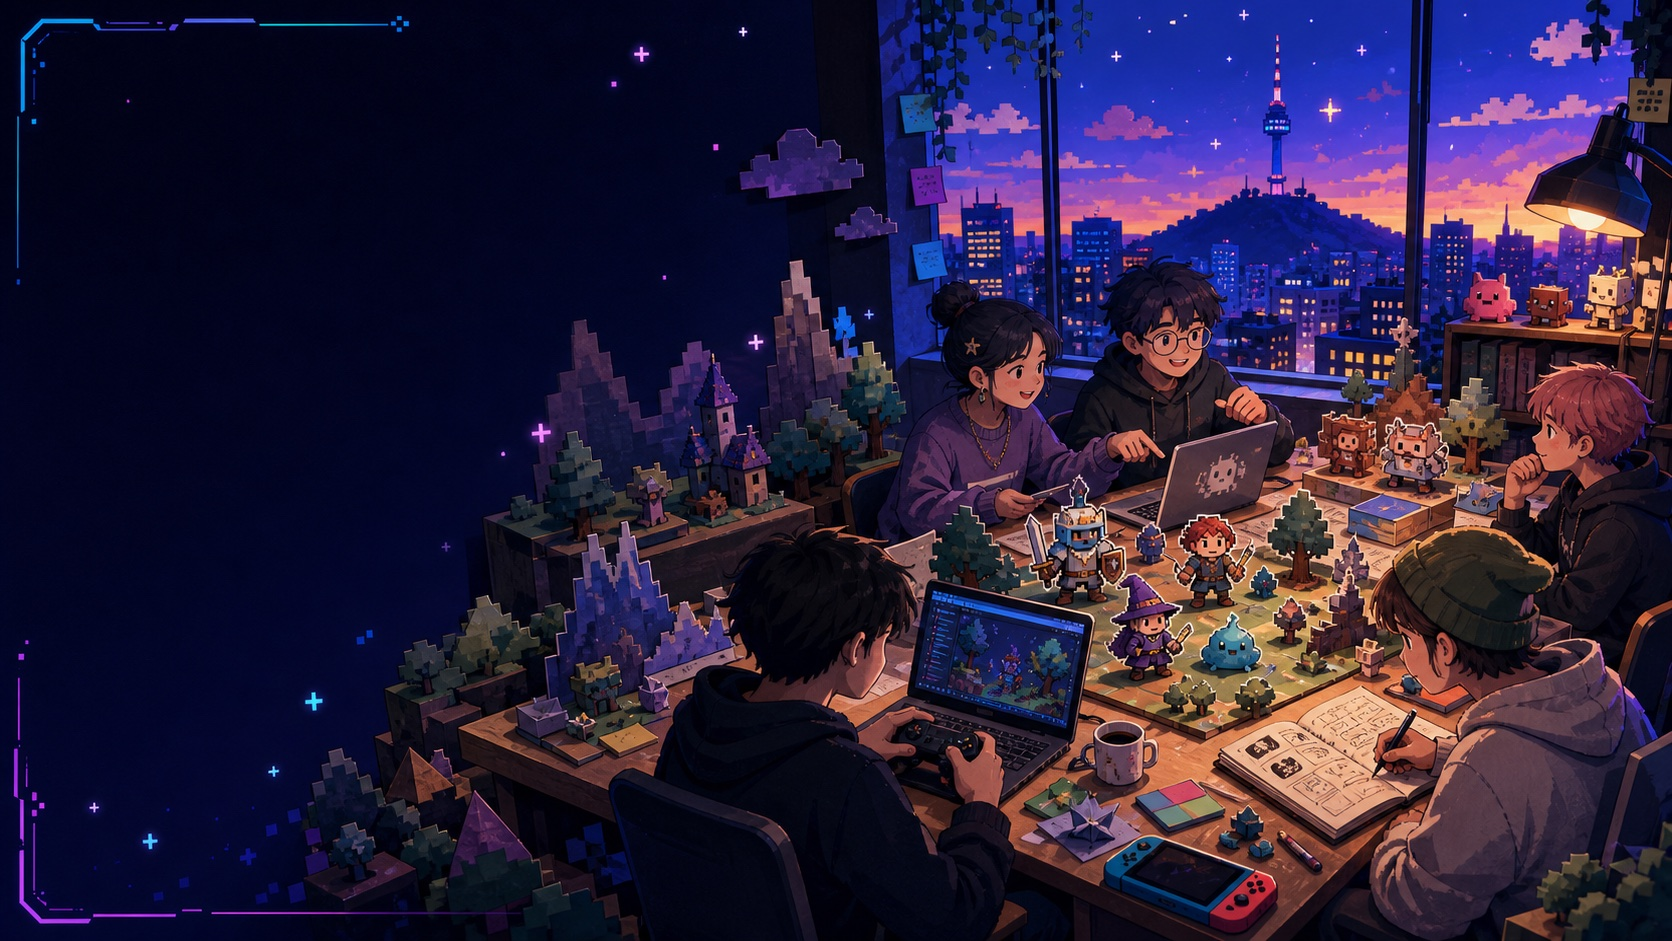
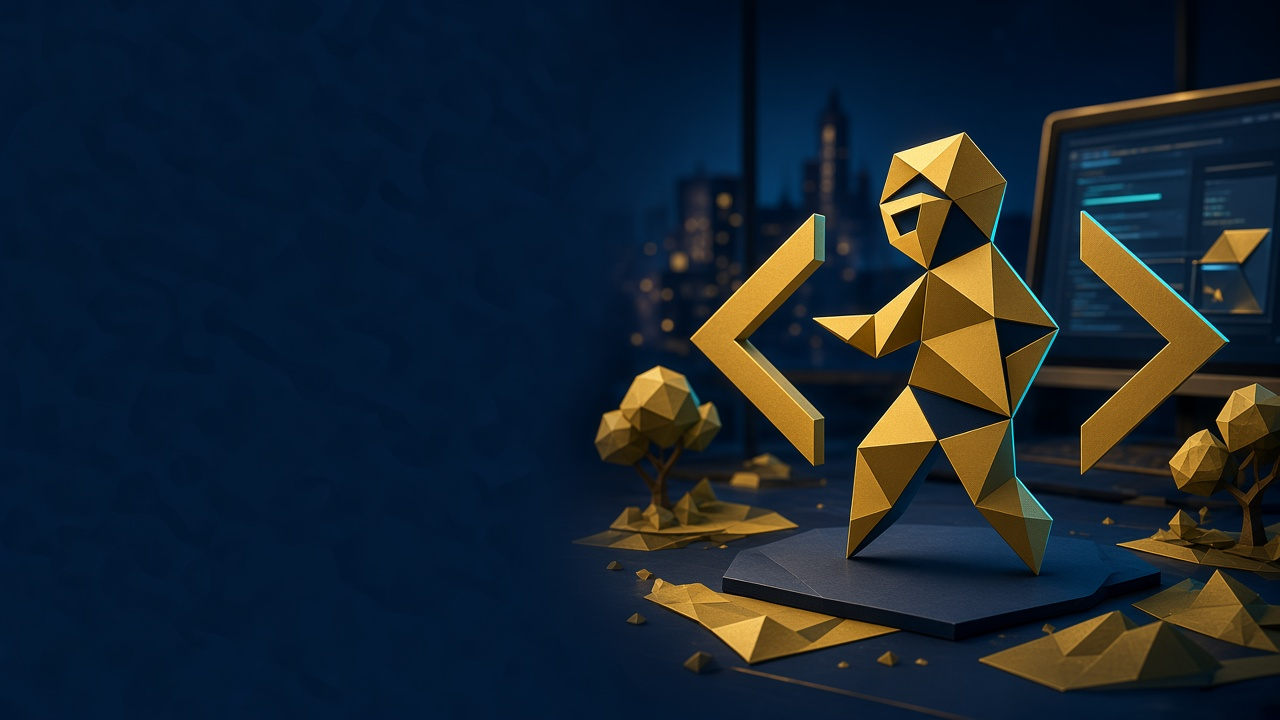
바이브개발스터디 인장과 남색 히어로로 첫 화면을 맞추고, Discord는 해당 서버로 연다.

diff --git a/_sass/_layout.scss b/_sass/_layout.scss
@@ -26,32 +26,12 @@
 }
 
 .brand__mark {
-  position: relative;
-  display: grid;
-  grid-template-columns: repeat(2, 8px);
-  width: 28px;
-  height: 28px;
-  padding: 4px;
-  border: 1px solid rgba(54, 231, 240, 0.52);
-  box-shadow: inset 0 0 12px rgba(54, 231, 240, 0.18), 0 0 18px rgba(54, 231, 240, 0.12);
-  gap: 3px;
-  transform: rotate(45deg);
-}
-
-.brand__mark i {
-  width: 8px;
-  height: 8px;
-  background: var(--cyan);
-}
-
-.brand__mark i:nth-child(2),
-.brand__mark i:nth-child(3) {
-  background: var(--pink);
-}
-
-.brand__mark i:nth-child(4) {
-  background: transparent;
-  border: 1px solid var(--violet);
+  display: block;
+  width: 48px;
+  height: 48px;
+  border-radius: 50%;
+  object-fit: cover;
+  box-shadow: 0 0 0 1px rgba(214, 168, 62, 0.55), 0 0 16px rgba(214, 168, 62, 0.2);
 }
 
 .brand__copy {
@@ -171,7 +151,9 @@
 
 .brand__mark--footer {
   flex: 0 0 auto;
-  margin-top: 6px;
+  width: 64px;
+  height: 64px;
+  margin-top: 2px;
 }
 
 .footer-brand strong {

diff --git a/_includes/footer.html b/_includes/footer.html
@@ -1,7 +1,7 @@
 <footer class="site-footer">
   <div class="site-footer__inner">
     <div class="footer-brand">
-      <span class="brand__mark brand__mark--footer" aria-hidden="true"><i></i><i></i><i></i><i></i></span>
+      <img class="brand__mark brand__mark--footer" src="{{ site.baseurl }}/images/study-seal.png" alt="" width="64" height="64">
       <div>
         <strong>서울인디게임즈</strong>
         <p>목표 한 줄에서 시작해, 에이전트와 만들고, 플레이되는 빌드로 확인합니다.</p>

diff --git a/_includes/header.html b/_includes/header.html
@@ -1,7 +1,7 @@
 <header class="site-header">
   <div class="site-header__inner">
     <a class="brand" href="{{ site.baseurl }}/" aria-label="서울인디게임즈 홈">
-      <span class="brand__mark" aria-hidden="true"><i></i><i></i><i></i><i></i></span>
+      <img class="brand__mark" src="{{ site.baseurl }}/images/study-seal.png" alt="" width="48" height="48">
       <span class="brand__copy">
         <strong>SEOUL INDIE GAMES</strong>
         <small>서울인디게임즈</small>

diff --git a/_sass/_home.scss b/_sass/_home.scss
@@ -23,7 +23,7 @@
 
 .home-hero__art img {
   object-fit: cover;
-  object-position: center center;
+  object-position: 72% center;
 }
 
 .home-hero__wash {

diff --git a/README.md b/README.md
@@ -4,7 +4,7 @@
 목표 한 줄에서 시작해 에이전트와 만들고, 플레이되는 빌드로 확인합니다.
 
 - 공개 사이트: <https://emptypizza.github.io/seoulindies/>
-- Discord: <https://discord.gg/ekmHpGM54>
+- Discord: <https://discord.com/channels/1254322371511324692>
 - 카카오톡 오픈채팅: <https://open.kakao.com/o/pIxN9iFi>
 - 문의: <plusalpha.top@gmail.com>
 
@@ -25,8 +25,8 @@ ruby -rjekyll -e 'Jekyll::Commands::Build.process({"source" => ".", "destination
 ## 디자인
 
 - 일정과 핵심 문구는 이미지가 아닌 HTML로 제공해 접근성과 수정 가능성을 유지합니다.
-- 히어로 이미지는 제공된 네온 픽셀 포스터를 분위기 참고 자료로 삼아 이미지 생성 모델로 새로 제작했습니다.
-- 원본 생성 결과는 PNG였으며, 실제 사이트에는 WebP와 JPEG 대체 이미지를 사용합니다.
+- 헤더와 푸터 마크는 바이브개발스터디 인장 이미지를 원형으로 잘라 사용합니다.
+- 히어로 이미지는 그 인장의 남색·골드 저폴리 인물을 참고해 새로 생성했고, 왼쪽은 글자가 앉을 여백으로 두었습니다.
 - 상세 시장·레퍼런스 조사와 설계 근거는 [docs/market-and-design-research.md](docs/market-and-design-research.md)에 정리했습니다.
 
 ## 배포

diff --git a/_posts/2026-07-23-plan-vs-goal-hackathon.md b/_posts/2026-07-23-plan-vs-goal-hackathon.md
@@ -32,7 +32,7 @@ event_status: ended
 | 시간 | 14:00 ~ 19:00 (개발 ~18:30 / 공유·투표 ~19:00) |
 | 주제 | **plan vs goal — 어떻게 시작하면 바이브가 되는가** |
 | 권장 | AI agent가 껴 있는 IDE·에이전트 툴 적극 사용 |
-| 신청 | [plusalpha.top@gmail.com](mailto:plusalpha.top@gmail.com) · [Discord](https://discord.gg/ekmHpGM54) · [카카오톡 오픈채팅](https://open.kakao.com/o/pIxN9iFi) |
+| 신청 | [plusalpha.top@gmail.com](mailto:plusalpha.top@gmail.com) · [Discord](https://discord.com/channels/1254322371511324692) · [카카오톡 오픈채팅](https://open.kakao.com/o/pIxN9iFi) |
 
 ---
 
@@ -176,5 +176,5 @@ AI 들고 와서 부딪혀 보세요.
 ## Contact
 
 - 문의/신청: [plusalpha.top@gmail.com](mailto:plusalpha.top@gmail.com)
-- Discord: [참여 · 일정 안내](https://discord.gg/ekmHpGM54)
+- Discord: [참여 · 일정 안내](https://discord.com/channels/1254322371511324692)
 - 카카오톡 오픈채팅: [참여 · 일정 안내](https://open.kakao.com/o/pIxN9iFi)
